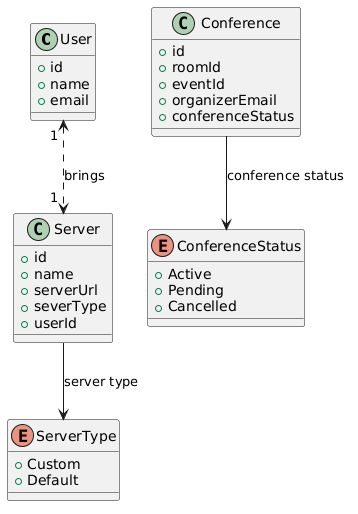
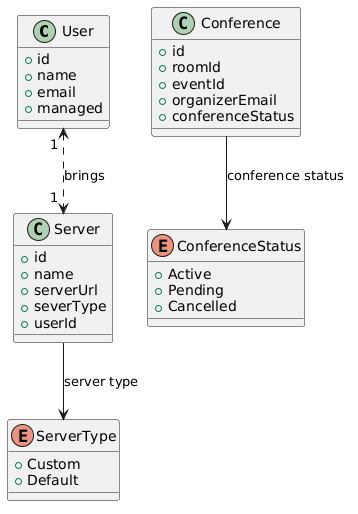
progress

Changed region(s): [[0.0307, 0.0311, 0.3073, 0.2802]]

diff --git a/src/main/java/com/teenthofabud/videoconference/mdr/user/resource/UserAPI.java b/src/main/java/com/teenthofabud/videoconference/mdr/user/resource/UserAPI.java
@@ -1,7 +1,5 @@
 package com.teenthofabud.videoconference.mdr.user.resource;
 
-import com.teenthofabud.videoconference.mdr.server.error.ServerException;
-import com.teenthofabud.videoconference.mdr.server.form.ServerPreferenceForm;
 import com.teenthofabud.videoconference.mdr.user.vo.UserVo;
 import com.teenthofabud.videoconference.mdr.user.error.UserException;
 import com.teenthofabud.videoconference.mdr.user.form.UserForm;
@@ -15,7 +13,9 @@ import io.swagger.v3.oas.annotations.parameters.RequestBody;
 import io.swagger.v3.oas.annotations.responses.ApiResponse;
 import io.swagger.v3.oas.annotations.responses.ApiResponses;
 import io.swagger.v3.oas.annotations.tags.Tag;
+import jakarta.validation.Valid;
 import org.springframework.http.ResponseEntity;
+import org.springframework.web.bind.annotation.PostMapping;
 
 import static org.springframework.http.MediaType.APPLICATION_JSON_VALUE;
 
@@ -31,6 +31,15 @@ public interface UserAPI {
     })
     ResponseEntity<Void> createNewUser(@RequestBody(description = "User form", required = true,
             content = @Content(schema = @Schema(implementation = UserForm.class))) UserForm form) throws UserException;
+
+    @Operation(method = "POST", summary = "Guest user creation", description = "createNewGuestUser")
+    @ApiResponses(value = {
+            @ApiResponse(responseCode = "201", description = "User created"),
+            @ApiResponse(
+                    responseCode = "409", description = "User already created",
+                    content = @Content(mediaType = APPLICATION_JSON_VALUE, schema = @Schema(implementation = ErrorVo.class)))
+    })
+    ResponseEntity<UserVo> createNewGuestUser (@Valid @org.springframework.web.bind.annotation.RequestBody UserForm form) throws UserException;
 
     @Operation(method = "GET", summary = "Get User By Id", description = "getUserById")
     @Parameter(description = "User ID (PK)",name = "userID",required = true,in = ParameterIn.PATH, schema = @Schema(implementation = Long.class))

diff --git a/src/main/java/com/teenthofabud/videoconference/mdr/user/resource/impl/UserController.java b/src/main/java/com/teenthofabud/videoconference/mdr/user/resource/impl/UserController.java
@@ -16,7 +16,7 @@ import java.net.URI;
 
 @Slf4j
 @RestController
-@RequestMapping("/user")
+@RequestMapping("/api/user")
 public class UserController implements UserAPI {
 
     @Autowired
@@ -25,13 +25,20 @@ public class UserController implements UserAPI {
     @Override
     @PostMapping
     public ResponseEntity<Void> createNewUser(@Valid @RequestBody UserForm form) throws UserException {
-        UserVo userVo = userService.createNewUser(form);
+        UserVo userVo = userService.createNewUser(form,true);
         URI location = ServletUriComponentsBuilder
                 .fromCurrentRequest()
                 .path("/{id}")
                 .buildAndExpand(userVo.getId())
                 .toUri();
         return ResponseEntity.created(location).build();
+    }
+
+    @Override
+    @PostMapping("/preview")
+    public ResponseEntity<UserVo> createNewGuestUser(@Valid @RequestBody UserForm form) throws UserException {
+        UserVo userVo = userService.createNewUser(form, false);
+        return ResponseEntity.ok(userVo);
     }
 
     @Override

diff --git a/src/main/java/com/teenthofabud/videoconference/mdr/user/service/impl/UserServiceImpl.java b/src/main/java/com/teenthofabud/videoconference/mdr/user/service/impl/UserServiceImpl.java
@@ -33,13 +33,14 @@ public class UserServiceImpl implements UserService {
     UserEntityToVoConverter userEntityToVoConverter;
 
     @Override
-    public UserVo createNewUser(UserForm form) throws UserException {
+    public UserVo createNewUser(UserForm form, Boolean isManaged) throws UserException {
         Optional<UserEntity> existingUser = userRepository.findByEmail(form.getEmail());
         if(existingUser.isPresent()){
             log.error("User already exists with email id: {}",form.getEmail());
             throw new UserException(MDRErrorCode.MDR_EXISTS,new Object[]{form.getEmail()});
         }
         UserEntity userEntity = userFormToUserEntityConverter.convert(form);
+        userEntity.setManaged(isManaged);
         userRepository.save(userEntity);
         return userEntityToVoConverter.convert(userEntity);
     }

diff --git a/src/main/java/com/teenthofabud/videoconference/mdr/configuration/SecurityConfiguration.java b/src/main/java/com/teenthofabud/videoconference/mdr/configuration/SecurityConfiguration.java
@@ -21,6 +21,8 @@ public class SecurityConfiguration {
                 .authorizeHttpRequests(auth -> auth
                         .requestMatchers(HttpMethod.OPTIONS, "/**").permitAll()
                         .requestMatchers("/actuator/health").permitAll()
+                        .requestMatchers("/google/conference/**").permitAll()
+                        .requestMatchers(HttpMethod.POST,"/api/user/preview").permitAll()
                         .anyRequest().authenticated()
                 )
                 .addFilterBefore(authFilter, UsernamePasswordAuthenticationFilter.class)

diff --git a/src/main/java/com/teenthofabud/videoconference/mdr/user/entity/UserEntity.java b/src/main/java/com/teenthofabud/videoconference/mdr/user/entity/UserEntity.java
@@ -28,12 +28,11 @@ public class UserEntity {
     @Column(name = "email", nullable = false, unique = true)
     String email;
 
-    @Column(name = "name", nullable = false)
+    @Column(name = "name", nullable = true)
     String name;
 
-//    @Column(name = "reference_type", nullable = false)
-//    @Enumerated(EnumType.STRING)
-//    ReferenceType referenceType;
+    @Column(name = "is_managed", nullable = false)
+    Boolean managed;
 
     @OneToOne(mappedBy = "owner",fetch = FetchType.LAZY)
     private ServerEntity preferredServer;

diff --git a/src/main/java/com/teenthofabud/videoconference/mdr/JitsiConferenceModeratorApplication.java b/src/main/java/com/teenthofabud/videoconference/mdr/JitsiConferenceModeratorApplication.java
@@ -2,6 +2,7 @@ package com.teenthofabud.videoconference.mdr;
 
 import org.springframework.boot.SpringApplication;
 import org.springframework.boot.autoconfigure.SpringBootApplication;
+import org.springframework.boot.autoconfigure.security.servlet.UserDetailsServiceAutoConfiguration;
 
 @SpringBootApplication
 public class JitsiConferenceModeratorApplication {

diff --git a/src/main/java/com/teenthofabud/videoconference/mdr/user/service/UserService.java b/src/main/java/com/teenthofabud/videoconference/mdr/user/service/UserService.java
@@ -12,7 +12,7 @@ import com.teenthofabud.videoconference.mdr.user.vo.UserVo;
 
 public interface UserService {
 
-    UserVo createNewUser(UserForm form) throws UserException;
+    UserVo createNewUser(UserForm form, Boolean isManaged) throws UserException;
 
     UserVo getUserById(Long id) throws UserException;
 

diff --git a/src/main/java/com/teenthofabud/videoconference/mdr/user/form/UserForm.java b/src/main/java/com/teenthofabud/videoconference/mdr/user/form/UserForm.java
@@ -23,8 +23,4 @@ public class UserForm {
     @NotNull(message = "name can't be null")
     String name;
 
-//    @Schema(description = "User reference type, eg:- GMAIL",required = true)
-//    @NotNull(message = "reference type can't be null")
-//    ReferenceType referenceType;
-
 }

diff --git a/src/main/java/com/teenthofabud/videoconference/mdr/server/resource/impl/ServerController.java b/src/main/java/com/teenthofabud/videoconference/mdr/server/resource/impl/ServerController.java
@@ -15,7 +15,7 @@ import org.springframework.web.servlet.support.ServletUriComponentsBuilder;
 import java.net.URI;
 
 @RestController
-@RequestMapping("/server")
+@RequestMapping("/api/server")
 @Slf4j
 public class ServerController implements ServerAPI {
 
